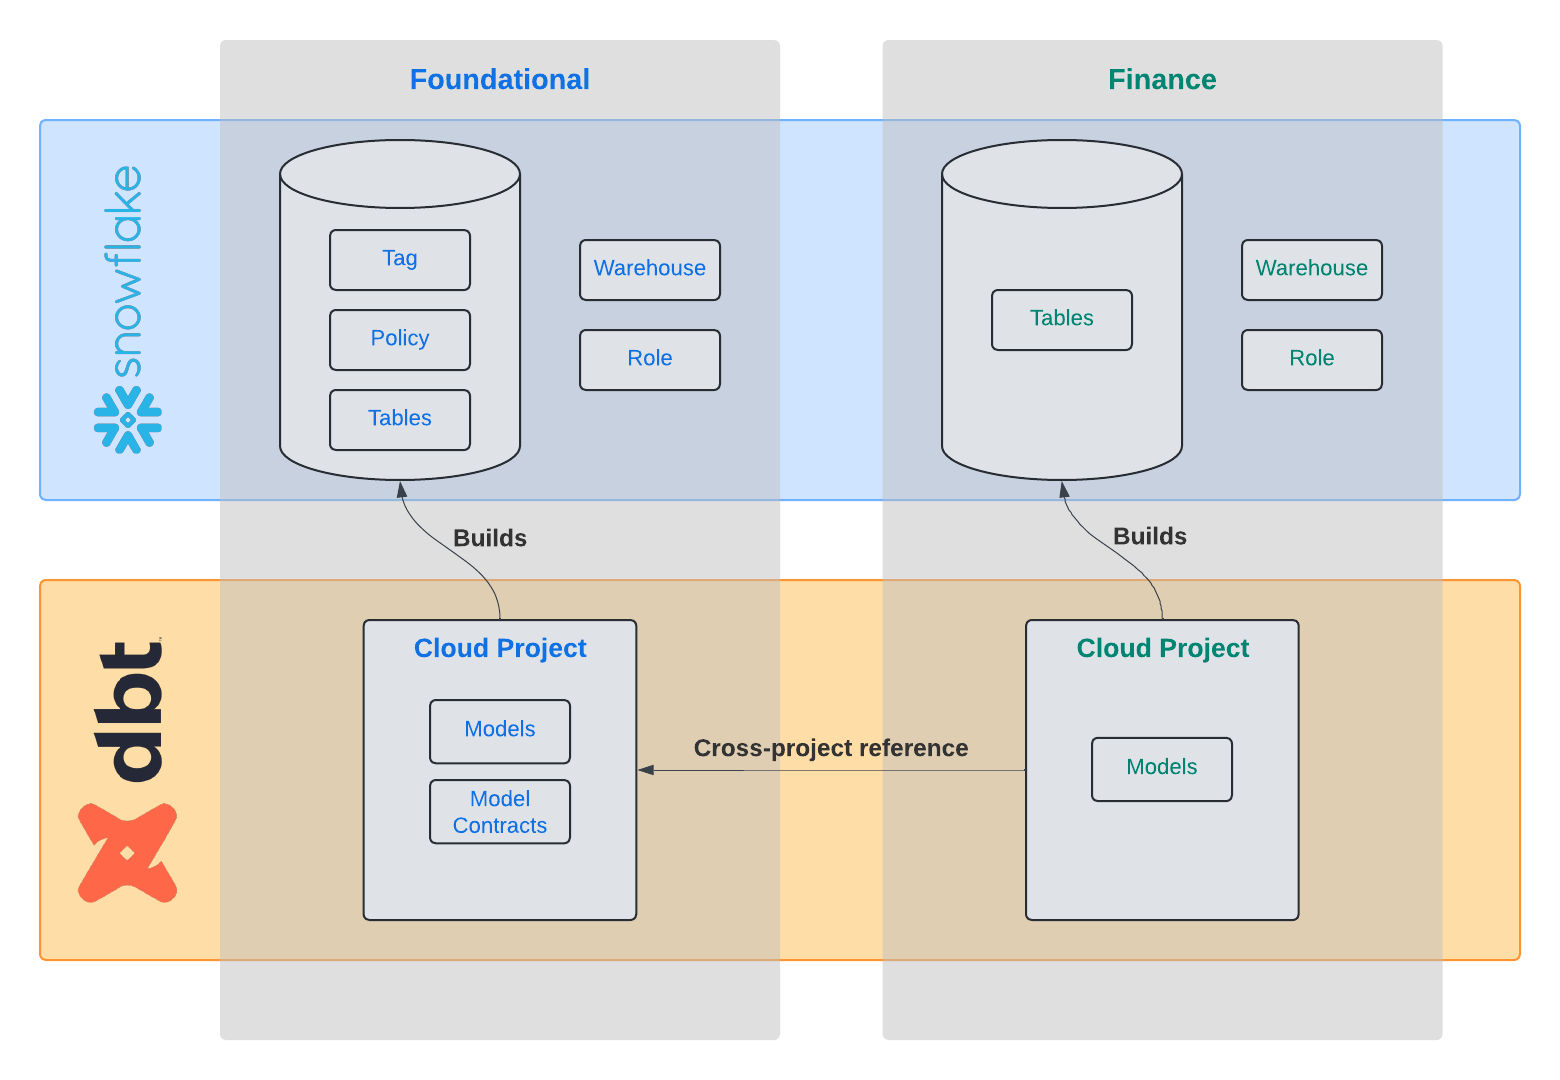
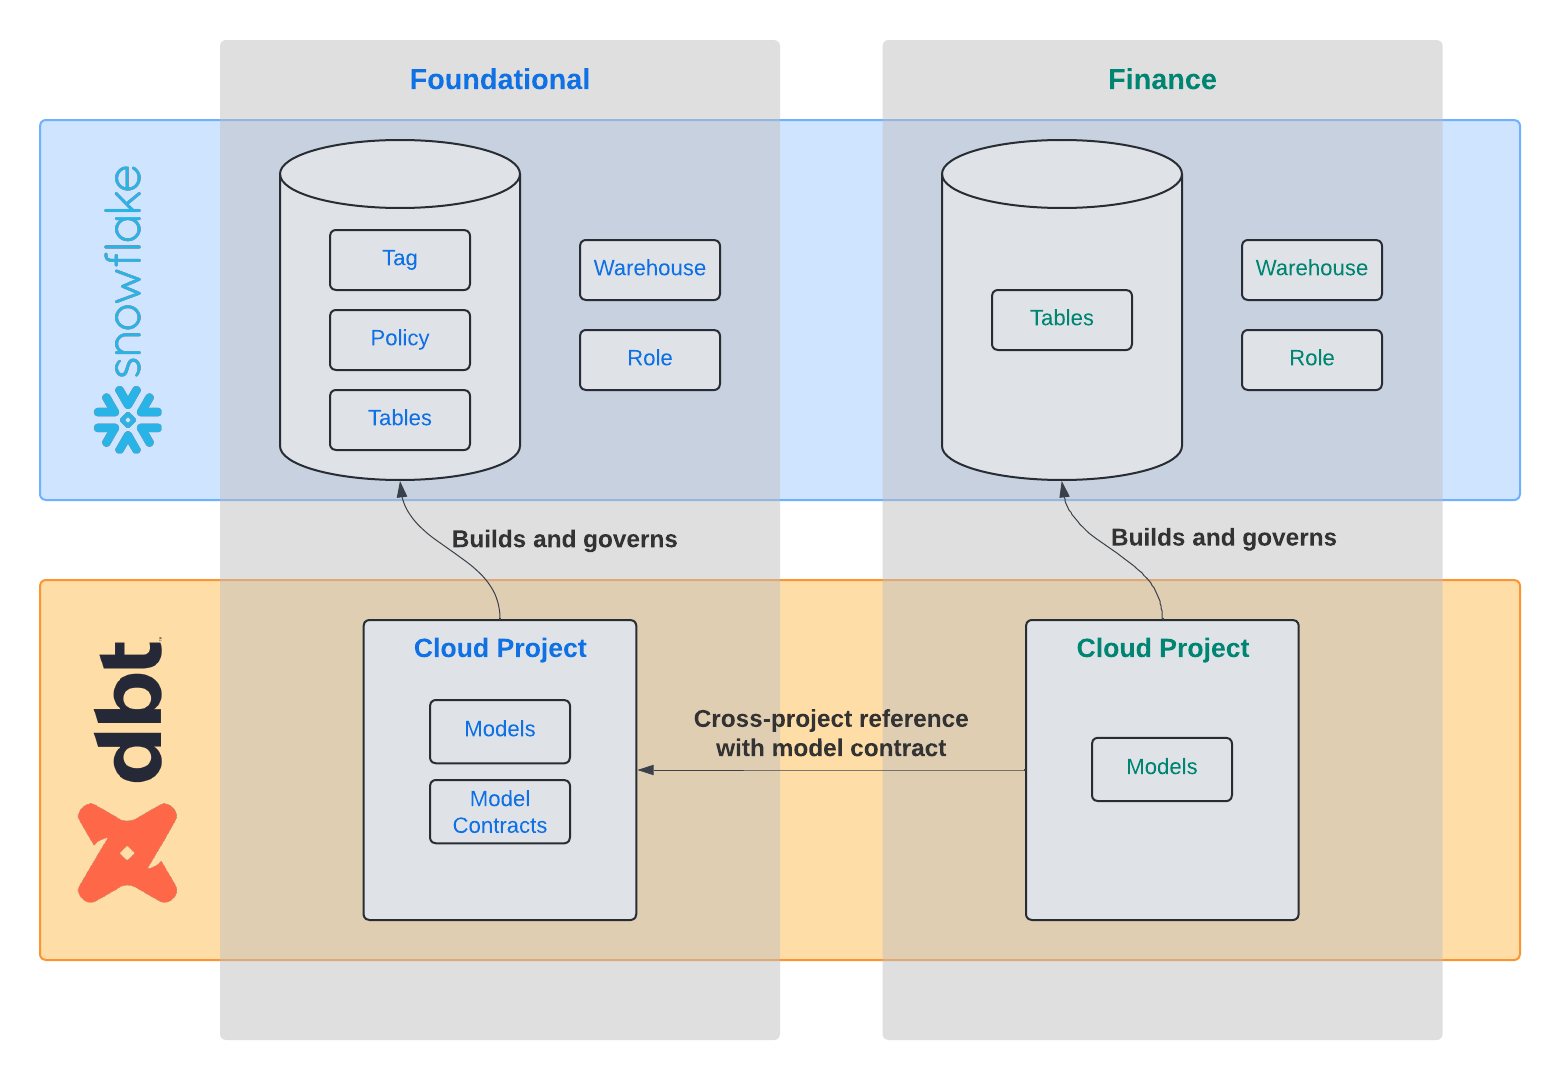
Added intro

Changed region(s): [[0.4308, 0.6417, 0.6154, 0.7028], [0.7077, 0.4889, 0.8615, 0.5194], [0.2769, 0.4889, 0.4308, 0.5194]]

diff --git a/site/sfguides/src/data_products_data_mesh_dbt/data_products_data_mesh_dbt.md b/site/sfguides/src/data_products_data_mesh_dbt/data_products_data_mesh_dbt.md
@@ -9,8 +9,11 @@ authors: Sean McIntyre, Doug Guthrie
 
 # Build Data Products and Data Mesh with dbt Cloud
 
-## Overview 
+<!-- ------------------------ -->
+## Introduction
 Duration: 5
+
+Welcome to the Build Data Products and Data Mesh with dbt Cloud Quickstart guide! Before you begin getting your hands into the technology, let's define what a data mesh is and describe what motivates the topic.
 
 ### What is a data mesh?
 
@@ -53,21 +56,42 @@ Finally, collaboration also becomes more difficult in a monolithic system. Since
 
 A data product is a useful information asset, accessed by a clearly defined interface, with an expectation of timeliness and correctness by the consumer. Teams build and maintain data products using processes and technologies that they are responsible for, though they could be supported by other platform-oriented teams.
 
-In the context of this guide, the data products created will be a set of tables in Snowflake organized as a [star schema](https://en.wikipedia.org/wiki/Star_schema). Snowflake and dbt Cloud can also be used together to build flat and wide tables, and [data vaults](https://en.wikipedia.org/wiki/Data_vault_modeling).
+The properties of a data product are:
+
+- **Discoverable:** it is easy to find
+- **Addressable:** it has a unique, labeled location for retrieval
+- **Trustworthy and truthful:** it is worthy of consumer trust
+- **Self-describing:** it comes with product information
+- **Interoperable:** it works with other products
+- **Secure and governed:** it has proper access controls
+- **Useful:** it has value
+
+### Learning more
+
+To learn more about data mesh, you may refer to dbt Labs' [Guide to Data Mesh e-book](https://8698602.fs1.hubspotusercontent-na1.net/hubfs/8698602/Guide%20to%20data%20mesh%20eBook%20V2.pdf).
+
+<!-- ------------------------ -->
+## About this guide
+Duration: 5
 
 ### What this guide covers
 
-In this guide you will learn how to use dbt Cloud and Snowflake together to build **data products** that are:
+Throughout this guide, imagine yourself building a data platform with Snowflake and dbt Cloud for your organization, starting with two teams:
 
-- Discoverable
-- Addressable
-- Trustworthy and truthful
-- Self-describing
-- Interoperable
-- Secure and governed
-- Useful
+1. **Core data team:** a team of experienced data engineers who build foundational data marts in Snowflake organized in a star schema of fact and dimensional tables
+2. **Finance team:** a team that includes data analysts in the finance department who want to own their data and data processes
 
-In addition, you will be guided through configuring dbt Cloud and Snowflake to achieve **federated governance** at a small scale by using a **self-service data platform**. As a result of this, you will experience building robust data products and a two-project data mesh, as an alternative to a monolithic data architecture.
+Each step of the guide will show you how to use features of both Snowflake and dbt Cloud to achieve building **data products**. As mentioned in the introduction, data products have the following properties:
+
+- **Discoverable:** it is easy to find
+- **Addressable:** it has a unique, labeled location for retrieval
+- **Trustworthy and truthful:** it is worthy of consumer trust
+- **Self-describing:** it comes with product information
+- **Interoperable:** it works with other products
+- **Secure and governed:** it has proper access controls
+- **Useful:** it has value
+
+By the end of this guide, you will achieve **federated governance** at a small scale by using **self-service data platforms**, as an alternative to a monolithic data architecture, which may be slow and brittle at scale.
 
 ### What this guide doesn't cover
 
@@ -79,17 +103,19 @@ In addition, you will be guided through configuring dbt Cloud and Snowflake to a
 
 ### Prerequisites
 
-- Snowflake
-  - Account admin access to a Snowflake Enterprise or Business Critical account
-  - Access to the TPCH dataset, specifically in the `SNOWFLAKE_SAMPLE_DATA` database and the `TPCH_SF1` schema.
+#### Snowflake
+
+- Account admin access to a Snowflake Enterprise or Business Critical account
+- Access to the TPCH dataset, specifically in the `SNOWFLAKE_SAMPLE_DATA` database and the `TPCH_SF1` schema.
 
 > aside negative
 > 
 > **You must use a Snowflake Enterprise account.** Snowflake Standard Edition is not sufficient, due to usage of Snowflake Enterprise features.
 
-- dbt Cloud
-  - Account admin access to a dbt Cloud Enterprise account
-  - Set your development and deployment [environments](https://docs.getdbt.com/docs/dbt-cloud-environments) to use dbt version 1.6 or later. You can also opt Keep on latest version of to always use the latest version of dbt.
+#### dbt Cloud
+
+- Account admin access to a dbt Cloud Enterprise account
+- Set your development and deployment [environments](https://docs.getdbt.com/docs/dbt-cloud-environments) to use dbt version 1.6 or later. You can also opt Keep on latest version of to always use the latest version of dbt.
 
 > aside negative
 > 
@@ -99,8 +125,9 @@ In addition, you will be guided through configuring dbt Cloud and Snowflake to a
 >
 > Otherwise, you may receive a dbt Cloud Enterprise account for evaluation purposes by [requesting one from the dbt Labs team](https://www.getdbt.com/contact).
 
-- Requires basic dbt familiarity
-  - To gain basic dbt familiarity, please do [dbt Fundamentals](https://courses.getdbt.com/courses/fundamentals) first
+#### Basic dbt familiarity
+
+To gain basic dbt familiarity, please do [dbt Fundamentals](https://courses.getdbt.com/courses/fundamentals) first
 
 <!-- ------------------------ -->
 ## Launch Snowflake and dbt Cloud for this Quickstart
@@ -222,15 +249,15 @@ grant role finance_role to user <your-snowflake-username>;
 
 With these basic setup steps within Snowflake, you have begun laying the first layer of an interoperable and secure data mesh. In the next step, you will add dbt Cloud to create the tables in the data products.
 
-Here is where we are in the journey towards robust data products:
+Here is where you are in the journey towards a data product:
 
-- Discoverable
-- Addressable
-- Trustworthy and truthful
-- Self-describing
-- Interoperable 🔜
-- Secure and governed 🔜
-- Useful
+- **Discoverable:** it is easy to find
+- **Addressable:** it has a unique, labeled location for retrieval
+- **Trustworthy and truthful:** it is worthy of consumer trust
+- **Self-describing:** it comes with product information
+- 👉🔜 **Interoperable:** it works with other products
+- 👉🔜 **Secure and governed:** it has proper access controls
+- **Useful:** it has value
 
 <!-- ------------------------ -->
 ## Create dbt Cloud projects for cross-team collaboration
@@ -238,7 +265,7 @@ Duration: 10
 
 In this step, you will set up two dbt Cloud Projects: one for the core data team, and one for the finance team, as depicted in the diagram below.
 
-You will notice that you need to input your Snowflake credentials and resources information created in the previous step. dbt Cloud uses Snowflake role and warehouse resources in order to build database tables and views. The platform is powerful enough for the core data team and also accessible enough for newcomers on the finance team to use, all while allowing collaboration between these two teams.
+You will notice that you need to input your Snowflake credentials and resources information created in the previous step. dbt Cloud uses Snowflake role and warehouse resources in order to build database tables and views. The platform is powerful enough for the core data team and also accessible enough for newcomers on the finance team to use, all the while allowing collaboration between these two teams.
 
 ![Target dbt Cloud configuration](assets/architecture-for-data-mesh-just-dbt-cloud.png)
 
@@ -304,15 +331,15 @@ When setting up dbt Cloud for production, there are four recommended security op
 
 dbt Cloud adds a layer of addressability and discoverability to the data platform. In the next step, you will build your first data product.
 
-Here is where we are in the journey towards robust data products:
+Here is where you are in the journey towards a data product:
 
-- Discoverable 🔜
-- Addressable 🔜
-- Trustworthy and truthful
-- Self-describing
-- Interoperable 🔜
-- Secure and governed 🔜
-- Useful
+- 👉🔜 **Discoverable:** it is easy to find
+- 👉🔜 **Addressable:** it has a unique, labeled location for retrieval
+- **Trustworthy and truthful:** it is worthy of consumer trust
+- **Self-describing:** it comes with product information
+- 🔜 **Interoperable:** it works with other products
+- 🔜 **Secure and governed:** it has proper access controls
+- **Useful:** it has value
 
 <!-- ------------------------ -->
 ## Build Foundational Project
@@ -552,15 +579,15 @@ Navigate to the [Command bar](https://arc.net/l/quote/kfovefjk) and execute a `d
 
 You now have built the first useful tables in the Foundational project, which any user or application can access using SQL. In the next step, you will secure the PII access to privileged users.
 
-Here is where we are in the journey towards robust data products:
+Here is where you are in the journey towards a data product:
 
-- Discoverable 🔜
-- Addressable 🔜
-- Trustworthy and truthful
-- Self-describing
-- Interoperable ✅
-- Secure and governed 🔜
-- Useful ✅
+- 🔜 **Discoverable:** it is easy to find
+- 🔜 **Addressable:** it has a unique, labeled location for retrieval
+- **Trustworthy and truthful:** it is worthy of consumer trust
+- **Self-describing:** it comes with product information
+- 👉✅ **Interoperable:** it works with other products
+- 🔜 **Secure and governed:** it has proper access controls
+- 👉✅ **Useful:** it has value
 
 <!-- ------------------------ -->
 ## Apply Snowflake masking to PII data
@@ -608,23 +635,25 @@ Navigate to the [Command bar](https://arc.net/l/quote/kfovefjk) and execute a `d
 
 TODO: should this be "click dbt Build button?"
 
-### Additional features to govern and secure
+### Additional features to govern and secure (TODO)
 
 - In the above steps, you created tags and masking policies directly in Snowflake using SQL statements. To scale this approach further, you can use dbt to manage these tags in configuration files and use a DataOps approach to apply the policies. Look into the [dbt-tags](https://dbt-tags.iflambda.com/latest/index.html) package from the dbt and Snowflake experts at Infinite Lambda.
+
+- Share data with Snowflake Private Listings
 
 ### Wrapping up this step
 
 You have now secured the PII produced in this data product so it is restricted to privileged users, governed by native Snowflake features. In the next step, you will add model contracts and enforce grants with dbt.
 
-Here is where we are in the journey towards robust data products:
+Here is where you are in the journey towards a data product:
 
-- Discoverable 🔜
-- Addressable 🔜
-- Trustworthy and truthful
-- Self-describing
-- Interoperable ✅
-- Secure and governed ✅
-- Useful ✅
+- 🔜 **Discoverable:** it is easy to find
+- 🔜 **Addressable:** it has a unique, labeled location for retrieval
+- **Trustworthy and truthful:** it is worthy of consumer trust
+- **Self-describing:** it comes with product information
+- ✅ **Interoperable:** it works with other products
+- 👉✅ **Secure and governed:** it has proper access controls
+- ✅ **Useful:** it has value
 
 <!-- ------------------------ -->
 ## Add model contracts and enforce Snowflake grants with dbt
@@ -729,9 +758,23 @@ To run your first deployment dbt Cloud job, you will need to create a new dbt Cl
 
 4. Then, click **Run now** to trigger the job.
 
-**TODO: Another pic showing clicking run now**
+### Additional features (TODO)
 
-5. Click **Explore** from the upper menu bar. You should now see your lineage, tests, and documentation coming through successfully.
+- Model versions
+
+### Wrapping up this step
+
+TODO: add section
+
+Here is where you are in the journey towards a data product:
+
+- 🔜 **Discoverable:** it is easy to find
+- 🔜 **Addressable:** it has a unique, labeled location for retrieval
+- 👉✅ **Trustworthy and truthful:** it is worthy of consumer trust
+- 👉✅ **Self-describing:** it comes with product information
+- ✅ **Interoperable:** it works with other products
+- ✅ **Secure and governed:** it has proper access controls
+- ✅ **Useful:** it has value
 
 <!-- ------------------------ -->
 ## Connect two dbt projects together
@@ -766,18 +809,74 @@ Notice the cross-project `ref` by using two arguments to the function - 1) name 
 
 7. Save your file and notice the lineage in the bottom pane.
 
-### So what?!
+> aside negative
+> 
+> ⚠ Before the finance project can leverage assets from the foundational project, you need to create a production environment and run a deployment job successfully.
+>
+> If you receive a failure message in th
 
-TODO: add
+
+TODO: run build
+
+### Wrapping up this step
+
+TODO: add section
+
+Here is where you are in the journey towards a data product:
+
+- 🔜 **Discoverable:** it is easy to find
+- 👉✅ **Addressable:** it has a unique, labeled location for retrieval
+- ✅ **Trustworthy and truthful:** it is worthy of consumer trust
+- ✅ **Self-describing:** it comes with product information
+- ✅ **Interoperable:** it works with other products
+- ✅ **Secure and governed:** it has proper access controls
+- ✅ **Useful:** it has value
+
+<!-- ------------------------ -->
+## Using dbt Cloud to discover data products
+
+
+> aside negative
+> 
+> Before a downstream team can leverage assets from this foundational project, you need to create a production environment and run a deployment job successfully.
+
+5. Click **Explore** from the upper menu bar. You should now see your lineage, tests, and documentation coming through successfully.
+
+
+
+Steps:
+1. Setup job
+2. Run job
+3. 
+
+### Additional features (TODO)
+
+- Downstream jobs
+
+### Wrapping up this step
+
+TODO: add section
+
+Here is where you are in the journey towards a data product:
+
+- 👉✅ **Discoverable:** it is easy to find
+- ✅ **Addressable:** it has a unique, labeled location for retrieval
+- ✅ **Trustworthy and truthful:** it is worthy of consumer trust
+- ✅ **Self-describing:** it comes with product information
+- ✅ **Interoperable:** it works with other products
+- ✅ **Secure and governed:** it has proper access controls
+- ✅ **Useful:** it has value
 
 <!-- ------------------------ -->
 ## Conclusion
 Duration: 1
 <!-- TODO: Fix this ^^ -->
 
-Additional features:
 
-- Downstream jobs
-- Model versions
-- dbt Cloud CLI
-- Share data with Snowflake Private Listings
+I think it's important to say that just by using base features of dbt Cloud and Snowflake, you get data products for free.
+
+That way you put guardrails up across the data mesh
+
+People build things
+
+Less risk in building data mesh
